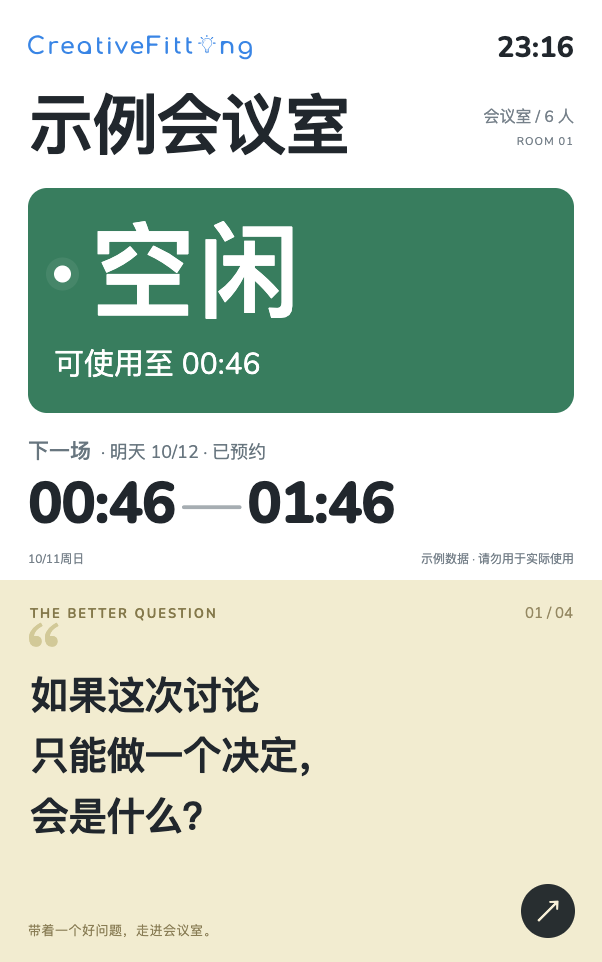
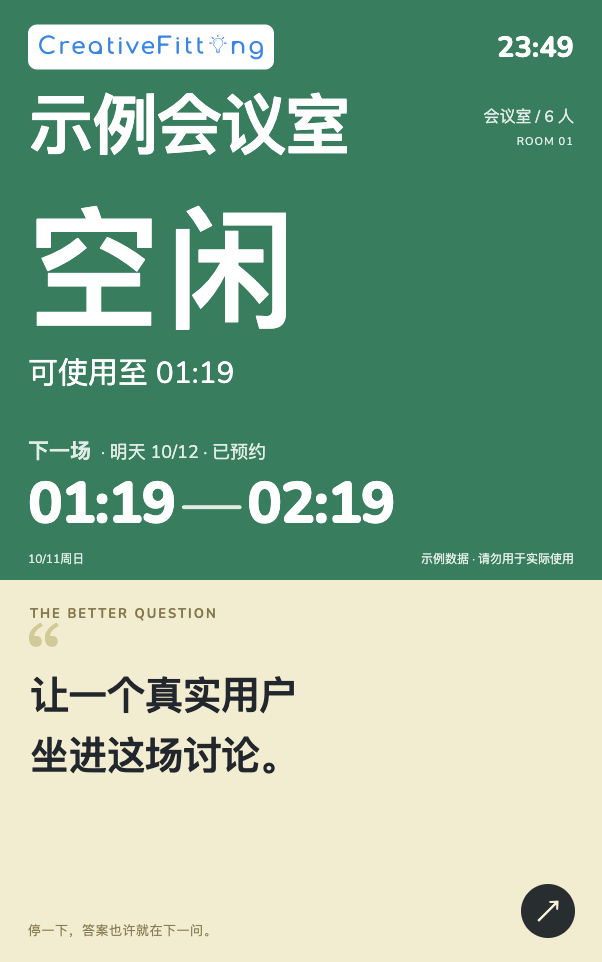
ui: enlarge room status field and add random answer-book prompts

diff --git a/src/app.js b/src/app.js
@@ -31,18 +31,129 @@ let snapshot = null;
 let fetchError = false;
 let fetchErrorReason = roomNumber ? '' : '请检查会议室链接';
 let lastLayoutSignature = '';
+// Original answer-book copy. No network/AI call and no visible index or total.
 const questions = [
-  '如果这次讨论\n只能做一个决定，\n会是什么？',
-  '如果只用一半时间，\n我们会先做哪件事？',
-  '什么证据，\n会让我们改变主意？',
-  '这个想法，\n最小可以小到什么程度？'
+  "如果这次讨论\n只能做一个决定，\n会是什么？",
+  "如果只用一半时间，\n我们会先做哪件事？",
+  "什么证据，\n会让我们改变主意？",
+  "这个想法，\n最小可以小到什么程度？",
+  "先问一个\n更小的问题。",
+  "答案可能藏在\n你还没问的地方。",
+  "把第一步\n缩小到今天能做。",
+  "先做一个版本，\n再让现实回答。",
+  "你不需要知道全部，\n才开始第一步。",
+  "让一个真实用户\n坐进这场讨论。",
+  "如果从零开始，\n还会这样设计吗？",
+  "我们在解决问题，\n还是维护一个习惯？",
+  "什么可以\n先不做？",
+  "把假设写下来，\n再把它交给实验。",
+  "先把问题说清楚，\n再把答案说漂亮。",
+  "换个角度，\n也许就有入口。",
+  "暂停一下，\n听听最安静的声音。",
+  "让对方把话\n说完。",
+  "我们说的“好”，\n是同一种好吗？",
+  "此刻最缺的，\n是答案还是共识？",
+  "把分歧变成\n一个可验证的问题。",
+  "先找共同的起点，\n再讨论不同的路径。",
+  "如果没人需要证明\n自己是对的呢？",
+  "我们是否错过了\n一个简单的解释？",
+  "先说观察，\n再说判断。",
+  "把“不可能”\n拆成几个小问题。",
+  "如果这个前提错了，\n会发生什么？",
+  "把最担心的事\n说具体。",
+  "哪个风险，\n值得先试一次？",
+  "留一点空间，\n给意料之外的答案。",
+  "真正的瓶颈，\n可能不在眼前。",
+  "我们要优化的，\n究竟是什么？",
+  "更快之前，\n先确认方向。",
+  "如果少一个功能，\n体验会更好吗？",
+  "谁会因为这个改变，\n少一次麻烦？",
+  "用户会用\n什么词描述它？",
+  "不看演示，\n它还成立吗？",
+  "把“感觉不错”\n换成一个观察。",
+  "什么反馈，\n值得我们认真停下？",
+  "先去现场，\n再回会议室。",
+  "下一步的线索，\n可能在一次失败里。",
+  "今天学到什么，\n比今天做了多少重要。",
+  "让实验足够小，\n让反馈足够真。",
+  "先试最不确定的\n那一部分。",
+  "成功的信号，\n要提前约定。",
+  "一次没成功，\n还不足以下结论。",
+  "不是每个波动，\n都需要一个解释。",
+  "问问那个\n没有被选中的方案。",
+  "如果结果相反，\n我们会怎么解释？",
+  "留下记录，\n给未来的自己。",
+  "让工具做重复的事，\n让人做值得想的事。",
+  "AI 的回答，\n也需要一个好问题。",
+  "先定义任务，\n再选择模型。",
+  "模型知道的，\n不等于用户需要的。",
+  "这次自动化，\n为谁省下了时间？",
+  "如果不用 AI，\n问题依然存在吗？",
+  "给智能一点边界，\n给人一点主动权。",
+  "把复杂藏起来，\n把清楚交给用户。",
+  "哪个环节，\n最需要人的判断？",
+  "我们在创造价值，\n还是展示能力？",
+  "灵感来了，\n先留一行字。",
+  "还没成熟的想法，\n也值得被听见。",
+  "把一个大胆的想法\n做成小小的样品。",
+  "认真对待\n那句“万一呢”。",
+  "如果换个人来做，\n会有什么不同？",
+  "先借一个视角，\n再找自己的答案。",
+  "别急着命名，\n先看看它是什么。",
+  "多看一次，\n可能就是新发现。",
+  "今天有没有\n值得保留的意外？",
+  "给好奇心\n留一个位置。",
+  "重要的事，\n也可以慢慢想。",
+  "需要的是坚持，\n还是换一种方法？",
+  "别让紧迫，\n替你决定重要。",
+  "这件事值得\n再睡一觉吗？",
+  "可以先停下来，\n再重新出发。",
+  "留一点余地，\n给下一次理解。",
+  "把注意力\n还给眼前的人。",
+  "先照顾好精力，\n再做重要的判断。",
+  "此刻能放下的，\n就先放下。",
+  "一个清楚的下一步，\n胜过一页愿望。",
+  "我们需要更多选项，\n还是一次选择？",
+  "什么决定，\n可以放心晚一点做？",
+  "如果只带走一句话，\n会是哪一句？",
+  "谁来做，什么时候做，\n做完是什么样？",
+  "把结束变成\n下一步的开始。",
+  "先确认理解，\n再确认同意。",
+  "这场会结束后，\n什么会真正改变？",
+  "有没有一件事，\n值得现在就敲定？",
+  "能在纸上画出来，\n就先别绕着说。",
+  "给结论一个理由，\n给理由一份证据。",
+  "好的答案，\n也可以是“还不知道”。",
+  "允许自己\n更新昨天的判断。",
+  "把确定的说清楚，\n把未知的留在桌上。",
+  "谁的经验，\n能让我们少绕一圈？",
+  "什么值得保留，\n即使一切重新开始？",
+  "如果没有惯例，\n我们会怎么选择？",
+  "从一个真实的需求\n重新开始。",
+  "这个答案，\n有没有让事情更清楚？",
+  "下一次提问，\n试着少用一个形容词。",
+  "也许下一句，\n就是新的起点。"
 ];
-let questionIndex = 0;
+const questionDwellMs = 30000;
+let questionBag = [];
+let lastQuestion = null;
+let questionChangedAt = 0;
 
 function nextQuestion() {
-  questionIndex = (questionIndex + 1) % questions.length;
-  $('question-text').textContent = questions[questionIndex];
-  $('question-index').textContent = `${String(questionIndex + 1).padStart(2, '0')} / ${String(questions.length).padStart(2, '0')}`;
+  if (!questionBag.length) {
+    questionBag = questions.map((_, index) => index);
+    for (let i = questionBag.length - 1; i > 0; i--) {
+      const j = Math.floor(Math.random() * (i + 1));
+      [questionBag[i], questionBag[j]] = [questionBag[j], questionBag[i]];
+    }
+    // Avoid an immediate repeat when starting another shuffled cycle.
+    if (questionBag[0] === lastQuestion) {
+      [questionBag[0], questionBag[1]] = [questionBag[1], questionBag[0]];
+    }
+  }
+  lastQuestion = questionBag.shift();
+  $('question-text').textContent = questions[lastQuestion];
+  questionChangedAt = Date.now();
 }
 
 function time(iso) { return clockFormat.format(new Date(iso)); }
@@ -145,7 +256,7 @@ function render() {
   if (!fresh) {
     setState('unknown', '预约状态', '状态未知', fetchErrorReason || (room?.enabled === false ? '暂停使用' : '请查看飞书'));
   } else if (current) {
-    setState('busy', '当前状态', '已预约', `本场预计至 ${time(current.endIso)}`);
+    setState('busy', '当前状态', '占用中', `本场预计至 ${time(current.endIso)}`);
   } else if (next && next.start - now.getTime() <= 10 * 60000) {
     setState('soon', '当前状态', '即将开始', `距下一场 ${Math.ceil((next.start - now.getTime()) / 60000)} 分钟`);
   } else {
@@ -202,7 +313,7 @@ function reportLayout() {
     };
   }
   const report = {
-    layoutVersion:5,
+    layoutVersion:6,
     viewport:{width:window.innerWidth, height:window.innerHeight,
       visualHeight:Math.round(window.visualViewport?.height || window.innerHeight),
       devicePixelRatio:window.devicePixelRatio},
@@ -225,11 +336,15 @@ function reportLayout() {
 }
 
 setAppHeight();
+nextQuestion();
 $('question-next').addEventListener('click', nextQuestion);
 updateClock();
 render();
 refresh();
 window.addEventListener('resize', () => { setAppHeight(); setTimeout(reportLayout, 150); });
 window.visualViewport?.addEventListener('resize', () => { setAppHeight(); setTimeout(reportLayout, 150); });
-setInterval(render, 1000);
+setInterval(() => {
+  render();
+  if (Date.now() - questionChangedAt >= questionDwellMs) nextQuestion();
+}, 1000);
 setInterval(refresh, 15000);

diff --git a/src/styles.css b/src/styles.css
@@ -19,39 +19,37 @@ body { margin:0; overflow:hidden; }
 .viewport { position:fixed; inset:0; display:grid; place-items:center; }
 .signage { position:relative; width:calc(602px * var(--screen-scale)); height:calc(962px * var(--screen-scale)); overflow:hidden; }
 .booking-core,.question-card { position:absolute; width:602px; transform:scale(var(--screen-scale)); transform-origin:top left; }
-.booking-core { top:0; left:0; height:580px; padding:28px 28px 18px; background:#FFFFFF; }
+.booking-core { top:0; left:0; height:580px; padding:28px 28px 18px; color:#FFFFFF; background:var(--state); }
 .topbar { height:38px; display:flex; align-items:center; justify-content:space-between; }
-.brand-wordmark { display:block; width:224px; height:auto; }
+.brand-wordmark { display:block; width:246px; height:auto; padding:10px 11px; border-radius:9px; background:#FFFFFF; }
 #clock { font-size:29px; line-height:1; font-weight:750; font-variant-numeric:tabular-nums; }
 .room-row { height:82px; margin-top:20px; display:flex; align-items:center; justify-content:space-between; gap:16px; }
 #room-name { flex:1; min-width:0; margin:0; font-size:var(--room-size,66px); line-height:1.12; font-weight:800; letter-spacing:-1.8px; overflow-wrap:anywhere; }
-.room-meta { flex:none; font-size:16px; line-height:1.55; color:#74818B; text-align:right; }
+.room-meta { flex:none; font-size:16px; line-height:1.55; color:#FFFFFFD9; text-align:right; }
 #capacity:not(:empty)::before { content:' / '; }
 #room-number { display:block; font-size:11px; letter-spacing:1.1px; margin-top:4px; }
-.status-block { height:225px; margin-top:20px; border-radius:19px; padding:24px 26px 16px; color:#FFFFFF; background:var(--state); }
-.status-line { height:124px; display:flex; align-items:center; gap:20px; }
-.status-dot { width:17px; height:17px; flex:none; background:#FFFFFF; border-radius:50%; box-shadow:0 0 0 8px #FFFFFF12; }
-.status-main { font-size:91px; line-height:1.1; font-weight:650; letter-spacing:-3px; white-space:nowrap; }
-.state-available .status-main { font-size:104px; letter-spacing:2px; }
-.state-unknown .status-main { font-size:80px; }
+.status-block { height:225px; margin-top:20px; padding:12px 0 16px; color:#FFFFFF; }
+.status-line { height:145px; display:flex; align-items:center; }
+.status-main { font-size:114px; line-height:1.1; font-weight:850; letter-spacing:1px; white-space:nowrap; }
+.state-available .status-main { font-size:132px; letter-spacing:5px; }
+.state-soon .status-main,.state-unknown .status-main { font-size:100px; }
 .status-support { font-size:30px; line-height:1.2; margin-top:10px; white-space:nowrap; }
 .booking-side { margin-top:20px; height:110px; display:flex; flex-direction:column; justify-content:center; min-width:0; }
 .booking-head { display:flex; align-items:center; gap:10px; }
-.booking-head h2 { font-size:21px; font-weight:500; margin:0; line-height:1.35; color:var(--muted); }
-#booking-horizon { font-size:18px; color:var(--muted); }
+.booking-head h2 { font-size:21px; font-weight:600; margin:0; line-height:1.35; color:#FFFFFFD9; }
+#booking-horizon { font-size:18px; color:#FFFFFFD9; }
 .booking-card { min-width:0; }
 .booking-label { display:none; }
 .booking-time { display:flex; gap:8px; align-items:baseline; font-size:58px; line-height:1.2; font-weight:800; letter-spacing:-1.5px; font-variant-numeric:tabular-nums; white-space:nowrap; margin-top:4px; }
-.booking-time .dash { color:#A4ADB2; font-weight:400; font-size:1em; }
+.booking-time .dash { color:#FFFFFFD9; font-weight:400; font-size:1em; }
 .booking-organizer { display:none; }
 .booking-empty strong { display:block; font-size:40px; line-height:1.35; font-weight:700; }
 .booking-empty span { display:none; }
-.state-unknown .booking-empty strong { font-size:29px; color:#66747D; }
-footer { display:flex; justify-content:space-between; gap:12px; margin-top:7px; font-size:12px; color:#74818B; white-space:nowrap; }
+.state-unknown .booking-empty strong { font-size:29px; }
+footer { display:flex; justify-content:space-between; gap:12px; margin-top:7px; font-size:12px; color:#FFFFFFD9; white-space:nowrap; }
 #sync-text { font-variant-numeric:tabular-nums; }
 .question-card { top:calc(580px * var(--screen-scale)); left:0; height:382px; background:#F3ECCC; isolation:isolate; }
 .mini-label { position:absolute; top:25px; left:30px; color:#857843; font-size:13px; font-weight:700; letter-spacing:2px; }
-.question-index { position:absolute; top:23px; right:29px; color:#97895E; font-size:15px; }
 .question-text { position:absolute; left:30px; right:90px; top:86px; font-size:39px; line-height:1.55; font-weight:550; letter-spacing:-.8px; margin:0; white-space:pre-line; }
 .question-text::before { content:'“'; position:absolute; left:-4px; top:-58px; font:88px Georgia,serif; color:#D3C991; z-index:-1; }
 .question-note { position:absolute; bottom:23px; left:28px; color:#8B7D4F; font-size:13px; letter-spacing:.5px; }

diff --git a/src/index.template.html b/src/index.template.html
@@ -28,7 +28,7 @@
         </div>
         <div class="status-block" role="status" aria-live="polite">
           <span id="status-kicker" class="sr-only">预约状态</span>
-          <div class="status-line"><i class="status-dot" aria-hidden="true"></i><strong id="status-main" class="status-main">状态未知</strong></div>
+          <div class="status-line"><strong id="status-main" class="status-main">状态未知</strong></div>
           <div id="status-support" class="status-support">请查看飞书</div>
         </div>
         <section class="booking-side" aria-labelledby="booking-heading">
@@ -39,12 +39,11 @@
       </section>
       <section class="question-card" aria-label="换一个好问题">
         <span class="mini-label">THE BETTER QUESTION</span>
-        <span id="question-index" class="question-index">01 / 04</span>
         <p id="question-text" class="question-text" aria-live="polite">如果这次讨论
 只能做一个决定，
 会是什么？</p>
-        <span class="question-note">带着一个好问题，走进会议室。</span>
-        <button id="question-next" class="question-next" type="button" aria-label="换一个思考问题">↗</button>
+        <span class="question-note">停一下，答案也许就在下一问。</span>
+        <button id="question-next" class="question-next" type="button" aria-label="换一句灵感">↗</button>
       </section>
     </main>
   </div>

diff --git a/docs/question-card-design.md b/docs/question-card-design.md
@@ -1,12 +1,12 @@
 # 09 换一个好问题
 
-Selected by the owner2026-10-11 and adapted from the approved portrait concept. The live HK1 page uses real read-only room data, not the concept's simulated booking controls.
+Selected by the owner 2026-10-11 and adapted from the approved portrait concept. The live HK1 page uses real read-only room data, not the concept's simulated booking controls.
 
-At provisional602×962 CSS px, the booking core occupies580px and the question card382px. The Dotted-i wordmark, large semantic status panel and next time range retain the concept's hierarchy. The complete canvas scales uniformly to fit the visible viewport. Long room names reduce type size and may wrap inside their reserved row.
+At provisional 602×962 CSS px, the booking core occupies 580px and the question card 382px. The entire upper booking core is a solid state color, about 2.8× the former inset panel area. The approved blue Dotted-i wordmark sits on white; room, clock, status and next time range use white type. Available is 132px, occupied 114px, soon/unknown 100px before viewport scaling. The complete canvas scales uniformly to fit the visible viewport. Long room names reduce type size and may wrap inside their reserved row.
 
-Current booking: red 已预约 with expected end time. Next future booking: start/end range plus today/tomorrow/date. No future bookings: 暂无预约. Soon: amber countdown within10 minutes. Missing, stale, disabled or failed source: gray 状态未知, with no stale time range. Expired Hub authentication requests a new Feishu login. Bookings display 已预约; personal metadata is not displayed.
+Current booking: red 占用中 with expected end time. Next future booking: start/end range plus today/tomorrow/date. No future bookings: 暂无预约. Soon: amber countdown within 10 minutes. Missing, stale, disabled or failed source: gray 状态未知, with no stale time range. Expired Hub authentication requests a new Feishu login. Bookings display 已预约; personal metadata is not displayed.
 
-Four short questions are bundled in src/app.js and rendered as plain text. The arrow cycles one question; ordinary clock/API updates preserve it. No model/API request is involved. The question text and button retain their position in every state. Preview source=demo snapshots are visibly labelled.
+100 original short prompts and reflections are bundled in src/app.js and rendered as plain text, inspired by the experience of drawing a line from an answer book. They are original copy, not excerpts from a published book. On load and every 30 seconds the card draws from a shuffled bag; every prompt appears once per cycle, with no immediate repeat between cycles. The arrow draws immediately and resets the 30-second reading time. Ordinary clock/API updates preserve it. There is no visible index, total or progress indicator. No model/API request is involved. The question text and button retain their position in every state. Preview source=demo snapshots are visibly labelled.
 
 | Synthetic browser preview | Screenshot |
 | --- | --- |
@@ -17,6 +17,6 @@ Four short questions are bundled in src/app.js and rendered as plain text. The a
 | Sync failed / unknown | [unknown](question-card-previews/unknown.png) |
 | Long room name | [long](question-card-previews/long.png) |
 
-These screenshots use provisional602×962 / DPR1.33 desktop emulation. Actual portrait Acer/Fully dimensions and wall-distance reading remain physical acceptance checks. See acer-display-design-spec.md.
+These screenshots use provisional 602×962 / DPR1.33 desktop emulation. Actual portrait Acer/Fully dimensions and wall-distance reading remain physical acceptance checks. See acer-display-design-spec.md.
 
 Build dist/hub.html for HK1 /rooms/ and /rooms/api; dist/index.html retains the legacy API prefix. The shared Feishu gate and private reader mappings are managed by the lisahost owner, never by this public repository. New deployments target HK1; the old CA1 page is not overwritten by this release.

diff --git a/README.md b/README.md
@@ -54,7 +54,7 @@ The public API returns a snapshot shaped like this; dates below are examples onl
 }
 ```
 
-Only a fresh snapshot with an enabled room may show “空闲” or “已预约”. If fetching fails, `fresh=false`, or `fetched_at` ages beyond `max_age_seconds`, show “状态未知 / 请查看飞书”. Booking rows currently display “已预约”; the public JSON contains times only, with no organizer names, meeting titles, internal IDs or calendar links. Design the page so the room, status and next booking are readable at a distance and fit without scrolling at the measured Fully viewport.
+Only a fresh snapshot with an enabled room may show “空闲” or “占用中”. If fetching fails, `fresh=false`, or `fetched_at` ages beyond `max_age_seconds`, show “状态未知 / 请查看飞书”. Booking rows currently display “已预约”; the public JSON contains times only, with no organizer names, meeting titles, internal IDs or calendar links. Design the page so the room, status and next booking are readable at a distance and fit without scrolling at the measured Fully viewport.
 
 ## Collaborate and release
 
@@ -62,6 +62,6 @@ This repository is public. Teammates can fork it and open pull requests without 
 
 The `main` branch is the UI source for future releases. A merge does not automatically change the live door sign. The current deployment target is HK1 at `https://hub-test.linjunkai.com/rooms/` during migration; its Feishu authentication and room permissions remain in the shared server gateway. The deployment owner builds the selected commit, backs up and atomically replaces only `/var/www/cf-hub/display/rooms/index.html` with `dist/hub.html`, then verifies the page, read-only API, authentication and service health. The five-minute JSON reader runs independently on HK1; frontend polling stays15 seconds. The temporary hostname currently transits CA1 to reach HK1. Legacy CA1 routes are kept until a separate cutover; new UI publication targets HK1. Operational receipts record the source commit and artifact hash.
 
-The selected production layout is [09 换一个好问题](docs/question-card-design.md): a stable booking area above a pale yellow question card. Four bundled questions cycle by tapping the arrow, without network or AI calls. The full portrait canvas fits the available viewport without scrolling. State boundaries and data expiry are checked every second even if a fetch stalls; a ten-second request timeout and15-second polling allow later recovery.
+The selected production layout is [09 换一个好问题](docs/question-card-design.md): a stable booking area above a pale yellow question card. The entire upper booking area turns green, red, amber or slate with large white status text. 100 original bundled answer-book prompts draw randomly on load and every 30 seconds; tapping the arrow draws immediately and resets the reading time. No index or total is shown, and each cycle avoids repeats. No network or AI calls are involved. The full portrait canvas fits the available viewport without scrolling. State boundaries and data expiry are checked every second even if a fetch stalls; a ten-second request timeout and15-second polling allow later recovery.
 
 The CreativeFitting wordmark is company branding. Nunito and Quicksand retain their bundled SIL Open Font License texts in `assets/`. Public visibility allows viewing and proposing changes; no general open-source license is granted for the UI or brand artwork.

diff --git a/AGENTS.md b/AGENTS.md
@@ -10,4 +10,4 @@ The Acer A312-2W must now be mounted in portrait. Fully's portrait fullscreen vi
 
 Before proposing a UI change, run `python3 scripts/build.py`, `python3 -m unittest discover -s tests -v`, `node --check src/app.js`, and `node --test tests/test_room_selection.cjs`. Review all six preview states, including stale data and a long room name. Include portrait screenshots at the provisional 602×962 CSS-pixel canvas with a pull request, and clearly label that canvas as an estimate until the tablet is remeasured. Merging does not auto-deploy; coordinate a reviewed HK1 release with the lisahost deployment owner and retain Feishu authentication. Use browser checks before publication and verify the physical Acer separately when available.
 
-Current selected design (2026-10-11): 09 换一个好问题. The upper580 / lower382 design coordinates preserve a 60% booking / 40% question hierarchy at provisional602×962. Uniformly fit the complete portrait canvas into the visible viewport. Next booking shows the first future interval; an active booking is indicated by 已预约 and its end time. Four local questions cycle by touch and do not call an AI service. Clock/state updates must still mark stale data unknown if a network request stalls.
+Current selected design (2026-10-11): 09 换一个好问题. The upper580 / lower382 design coordinates preserve a 60% booking / 40% question hierarchy at provisional 602×962. Uniformly fit the complete portrait canvas into the visible viewport. Next booking shows the first future interval; an active booking is indicated by 占用中 and its end time. The upper booking core is a full state-color field with large white status text. 100 original local prompts draw from a shuffled bag every 30 seconds or on tap; a tap resets the dwell, and ordinary clock/API updates preserve the prompt. Do not show a prompt index, total or progress. No AI service is called. Clock/state updates must still mark stale data unknown if a network request stalls.
